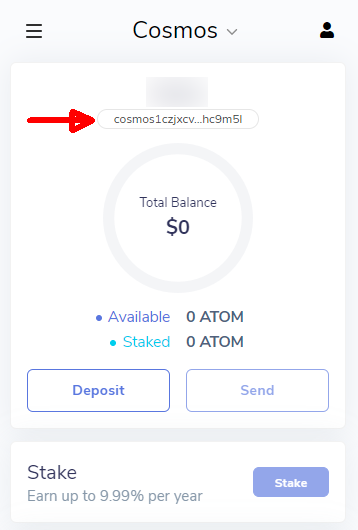
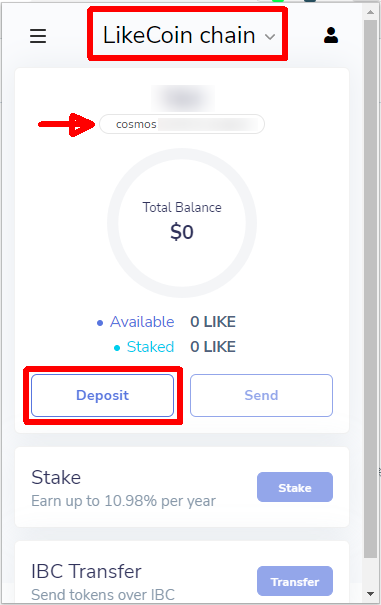
GitBook: [#3616] Update iscn widgrt demo link with proper tags

diff --git a/developer/international-standard-content-number-iscn/web-widget/reference.md b/developer/international-standard-content-number-iscn/web-widget/reference.md
@@ -4,44 +4,44 @@ description: ISCN web widget API Reference
 
 # Reference
 
-## Formatting the widget URL <a id="formatting-the-widget-url"></a>
+## Formatting the widget URL <a href="formatting-the-widget-url" id="formatting-the-widget-url"></a>
 
-### Base URL <a id="base-url"></a>
+### Base URL <a href="base-url" id="base-url"></a>
 
-Testnet: [`https://rinkeby.like.co/in/widget/iscn`](https://rinkeby.like.co/in/widget/iscn)\`\`
+Testnet: [`https://rinkeby.like.co/in/widget/iscn`](https://rinkeby.like.co/in/widget/iscn)``
 
-Production: [`https://like.co/in/widget/iscn`](https://like.co/in/widget/iscn)\`\`
+Production: [`https://like.co/in/widget/iscn`](https://like.co/in/widget/iscn)``
 
-###  Input Params <a id="input-params"></a>
+###  Input Params <a href="input-params" id="input-params"></a>
 
-| Query String | Description |
-| :--- | :--- |
-| fingerprint | IPFS hash of content, cid v0 |
-| type | Type of content, default is `article` |
-| tags | \(optional\) list of tags separated by comma |
-| title | Title of the content |
-| license | License of the content. Fixed as CCSA 4.0 for now if `publisher` is not set |
-| url | URL of the content |
-| publisher | \(optional\) name of the platform if your content was published through a platform. Currently only `matters` is valid option. |
-| state | \(optional\) local state to be passed back after signing success, used for data/security purpose |
-| redirect\_uri | \(optional\) Act as a whitelist host for postMessage, actual redirect is not implemented, please use with `opener` below |
-| opener | \(optional\) default false. If set, would fire a `postMessage` back to `window.opener` with `redirect_uri` host as target, then close current window |
-| blocking | \(optional\) default false, wait until transaction is confirmed before finishing |
+| Query String | Description                                                                                                                                        |
+| ------------ | -------------------------------------------------------------------------------------------------------------------------------------------------- |
+| fingerprint  | IPFS hash of content, cid v0                                                                                                                       |
+| type         | Type of content, default is `article`                                                                                                              |
+| tags         | (optional) list of tags separated by comma                                                                                                         |
+| title        | Title of the content                                                                                                                               |
+| license      | License of the content. Fixed as CCSA 4.0 for now if `publisher` is not set                                                                        |
+| url          | URL of the content                                                                                                                                 |
+| publisher    | (optional) name of the platform if your content was published through a platform. Currently only `matters` is valid option.                        |
+| state        | (optional) local state to be passed back after signing success, used for data/security purpose                                                     |
+| redirect_uri | (optional) Act as a whitelist host for postMessage, actual redirect is not implemented, please use with `opener` below                             |
+| opener       | (optional) default false. If set, would fire a `postMessage` back to `window.opener` with `redirect_uri` host as target, then close current window |
+| blocking     | (optional) default false, wait until transaction is confirmed before finishing                                                                     |
 
-### Output Params <a id="output-params"></a>
+### Output Params <a href="output-params" id="output-params"></a>
 
-| Query String | Description |
-| :--- | :--- |
-| tx\_hash | transaction hash of resulting payment, verify status using transaction status query API |
-| error | set if any catchable error occur |
-| success | only if `blocking` is set, return true if transaction success |
-| state | locale state that was passed as input, used for data/security purpose |
+| Query String | Description                                                                             |
+| ------------ | --------------------------------------------------------------------------------------- |
+| tx_hash      | transaction hash of resulting payment, verify status using transaction status query API |
+| error        | set if any catchable error occur                                                        |
+| success      | only if `blocking` is set, return true if transaction success                           |
+| state        | locale state that was passed as input, used for data/security purpose                   |
 
 ### PostMessage format
 
 if `opener` and `redirect_uri` is set, the widget would fire a `postMessage` to `redirect_uri` 's origin. 
 
-```text
+```
 const message = JSON.stringify({
   action: 'ISCN_SUBMITTED',
   data: {
@@ -55,13 +55,12 @@ this.windowOpener.postMessage(message, this.redirectOrigin);
 window.close();
 ```
 
-### Example Link <a id="example-link"></a>
+### Example Link <a href="example-link" id="example-link"></a>
 
 Following links are in testnet.
 
-#### Input Link: <a id="input-link-https-rinkeby-like-co-in-widget-pay-to-ckxpress-and-amount-1-and-via-kiutest-0-and-fee-1-and-state-123-and-redirect_uri-http-3-a-2-f-2-flocalhost-3-a3000"></a>
+#### Input Link: <a href="input-link-https-rinkeby-like-co-in-widget-pay-to-ckxpress-and-amount-1-and-via-kiutest-0-and-fee-1" id="input-link-https-rinkeby-like-co-in-widget-pay-to-ckxpress-and-amount-1-and-via-kiutest-0-and-fee-1"></a>
 
-#### [`https://rinkeby.like.co/in/widget/iscn?fingerprint=QmcTD5FbyBimKbd3EZ8PtR19PyeMnouZ7hZ178z75hZGrs&publisher=matters&title=iscn&tags=%5B"iscn"%5D`](https://rinkeby.like.co/in/widget/iscn?fingerprint=QmcTD5FbyBimKbd3EZ8PtR19PyeMnouZ7hZ178z75hZGrs&publisher=matters&title=iscn&tags=%5B%22iscn%22%5D) <a id="input-link-https-rinkeby-like-co-in-widget-pay-to-ckxpress-and-amount-1-and-via-kiutest-0-and-fee-1-and-state-123-and-redirect_uri-http-3-a-2-f-2-flocalhost-3-a3000"></a>
+#### [`https://rinkeby.like.co/in/widget/iscn?fingerprint=QmcTD5FbyBimKbd3EZ8PtR19PyeMnouZ7hZ178z75hZGrs&publisher=matters&title=iscn&tags=iscn,widget`](https://rinkeby.like.co/in/widget/iscn?fingerprint=QmcTD5FbyBimKbd3EZ8PtR19PyeMnouZ7hZ178z75hZGrs\&publisher=matters\&title=iscn\&tags=iscn,widget)`` <a href="input-link-https-rinkeby-like-co-in-widget-pay-to-ckxpress-and-amount-1-and-via-kiutest-0-and-fee-1" id="input-link-https-rinkeby-like-co-in-widget-pay-to-ckxpress-and-amount-1-and-via-kiutest-0-and-fee-1"></a>
 
-#### Tx Status Query:[`https://rinkeby.like.co/in/tx/iscn/dev/5108A861A1B21EB78ABEE8522F5933F0CB97CC11D2866FC93F4B8038C3B3730`](https://rinkeby.like.co/in/tx/iscn/dev/5108A861A1B21EB78ABEE8522F5933F0CB97CC11D2866FC93F4B8038C3B37301)\`\`[ ](https://docs.like.co/developer/like-pay/web-widget)
-
+#### Tx Status Query:[`https://rinkeby.like.co/in/tx/iscn/dev/5108A861A1B21EB78ABEE8522F5933F0CB97CC11D2866FC93F4B8038C3B3730`](https://rinkeby.like.co/in/tx/iscn/dev/5108A861A1B21EB78ABEE8522F5933F0CB97CC11D2866FC93F4B8038C3B37301)``[ ](https://docs.like.co/developer/like-pay/web-widget)

diff --git a/general-guides/wallet/keplr.md b/general-guides/wallet/keplr.md
@@ -6,37 +6,57 @@ description: LikeCoin decentralized management
 
 You can now manage your LikeCoin with the Keplr wallet, which is an interchain wallet and your can manage your own private key.
 
-You can also register a Liker ID with Keplr or bond it with a Liker ID, please take a look at:
+You can also register a Liker ID with Keplr or bond your existing Keplr wallet with a Liker ID, please take a look at:
 
-{% page-ref page="../../user-guide/liker-id/register-with-keplr.md" %}
+{% content-ref url="../../user-guide/liker-id/register-with-keplr.md" %}
+[register-with-keplr.md](../../user-guide/liker-id/register-with-keplr.md)
+{% endcontent-ref %}
 
-### **Step 1: Install Keplr extension**
+## **Transfer your LikeCoin to Keplr**
 
-Go to the Chrome Webstore and click "Add to Chrome" to install the [Keplr extension](https://chrome.google.com/webstore/detail/keplr/dmkamcknogkgcdfhhbddcghachkejeap).
+Before transferring LikeCoin to your Keplr wallet, please change the display on top to show LikeCoin chain.
 
-![](../../.gitbook/assets/keplr01.png)
+![](<../../.gitbook/assets/keplr-liker-id-07 (1).png>)
 
-Click and "Add extension" to Chrome / Brave.
-
-![](../../.gitbook/assets/keplr02.png)
-
-After installation click on Keplr icon and the registration screen appears. Click and “Create new account”.
-
-![](../../.gitbook/assets/keplr03.png)
-
-The 1st roll is the seed phrase. Find a secure place to encrypt and store the seed phrase as it is needed for account recovery.
-
-![](../../.gitbook/assets/keplr04.png)
-
-Fill in your Account name, password and click "Next", after validating the seed phrase, the wallet interface of Keplr appears.
-
-### **Step 2: Transfer your LikeCoin to Keplr**
-
-The Cosmos address on Keplr is universal, transfer your LikeCoin to this address \(suggest to transfer a small sum to try out at the first place\). You may notice that you cannot find the LikeCoin that you've transferred, but don't worry.
+Click on the wallet address and copy it and paste to somewhere else. Or click "Deposit" to show your QRCode.
 
 ![](../../.gitbook/assets/keplr05.png)
 
+Scan the QRCode and transfer LikeCoin to your Keplr wallet. Suggest to transfer a small sum to try out first.
+
+![](../../.gitbook/assets/keplr05dot5.png)
+
+The LikeCoin balance will appear after the transfer is completed.
+
+![](../../.gitbook/assets/keplr-liker-id-08.png)
+
+### **Send LikeCoin from Keplr to another wallet**
+
+****
+
 ### **Step 3: Check LikeCoin balance on Keplr**
+
+Go to [stake.like.co](http://stake.like.co) and click "Keplr Browser Extension".
+
+
+
+![](../../.gitbook/assets/keplr06.png)
+
+Then click "Approve".
+
+![](../../.gitbook/assets/keplr07.png)
+
+Click on "Approve" again.
+
+![](../../.gitbook/assets/keplr08.png)
+
+You can see your balance.
+
+![](../../.gitbook/assets/keplr09.png)
+
+You may use Keplr to transfer LikeCoin directly. You may also manage your LikeCoin with [stake.like.co](https://stake.like.co) and Keplr together to transfer or delegate. Keplr also supports hardware wallets.
+
+### Step 4: Manage LikeCoin on stake.like.co
 
 Go to [stake.like.co](http://stake.like.co) and click "Keplr Browser Extension".
 
@@ -54,13 +74,4 @@ You can see your balance.
 
 ![](../../.gitbook/assets/keplr09.png)
 
-Moreover, on the top menu of Keplr select "LikeCoin chain".
-
-![](../../.gitbook/assets/keplr-liker-id-07%20%281%29.png)
-
-It shows your LikeCoin balance.
-
-![](../../.gitbook/assets/keplr-liker-id-08.png)
-
 You may use Keplr to transfer LikeCoin directly. You may also manage your LikeCoin with [stake.like.co](https://stake.like.co) and Keplr together to transfer or delegate. Keplr also supports hardware wallets.
-

diff --git a/user-guide/liker-id/register-with-keplr.md b/user-guide/liker-id/register-with-keplr.md
@@ -97,31 +97,3 @@ You cannot use the same email address to register a Liker ID with Authcore and K
 On Liker Land Web settings, your LikeCoin wallet address is the same as the Keplr address, which means you successfully register your Liker ID with Keplr.
 
 ![](../../.gitbook/assets/keplr-liker-id-06-en.png)
-
-### Step 4: Manage LikeCoin on stake.like.co
-
-Go to [stake.like.co](http://stake.like.co) and click "Keplr Browser Extension".
-
-![](../../.gitbook/assets/keplr06.png)
-
-Then click "Approve".
-
-![](../../.gitbook/assets/keplr07.png)
-
-Click on "Approve" again.
-
-![](../../.gitbook/assets/keplr08.png)
-
-You can see your balance.
-
-![](../../.gitbook/assets/keplr09.png)
-
-Moreover, on the top menu of Keplr select "LikeCoin chain".
-
-![](<../../.gitbook/assets/keplr-liker-id-07 (1).png>)
-
-It shows your LikeCoin balance.
-
-![](../../.gitbook/assets/keplr-liker-id-08.png)
-
-You may use Keplr to transfer LikeCoin directly. You may also manage your LikeCoin with [stake.like.co](https://stake.like.co) and Keplr together to transfer or delegate. Keplr also supports hardware wallets.
